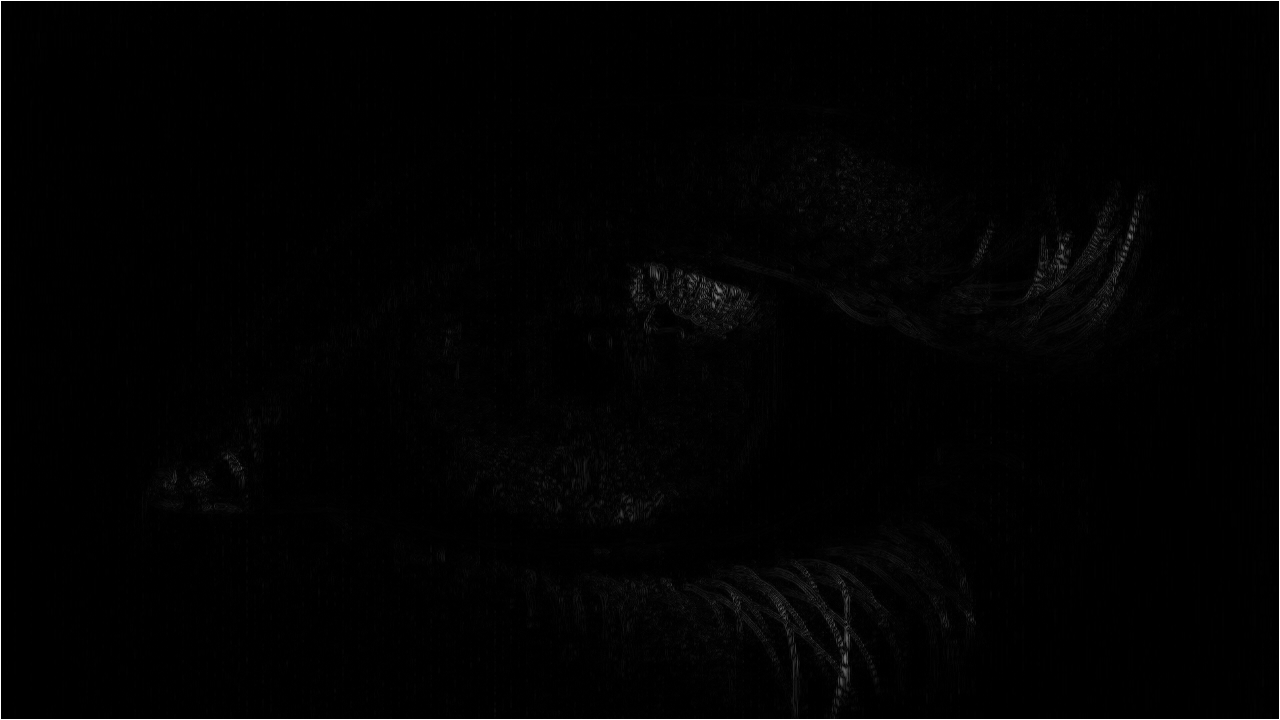
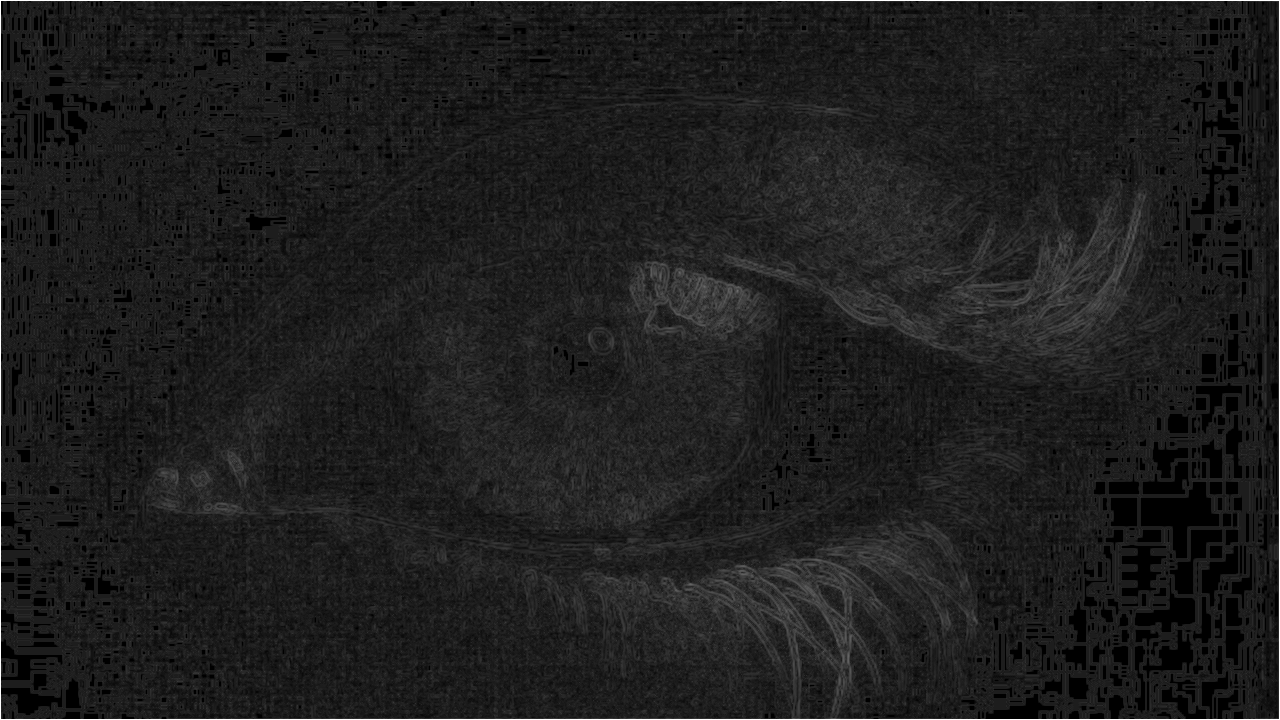
added "laplace sharpener" functionality - will need to consider whether to keep and use it

diff --git a/Eyebot3/LaplaceFilter.cs b/Eyebot3/LaplaceFilter.cs
@@ -23,10 +23,14 @@ namespace Eyebot3
             {
                 for (int j = -1; j < 2; j++)
                 {
-                    sumDifference += Math.Abs(pixelVal - getBrightness(image.GetPixel(xLoc + 1, yLoc + j)));
+                    var otherBrightness = getBrightness(image.GetPixel(xLoc + i, yLoc + j));
+                    sumDifference += Math.Abs(pixelVal - otherBrightness);
                 }
             }
-            return (int)(sumDifference / 9.0);
+            //sharpener experimentation
+            sumDifference = (int)(Math.Pow(sumDifference / (255.0*8.0), .5) * (255*8));
+            //end sharpener
+            return (int)(sumDifference / 8.0);
         }
 
         public int getBrightness(Color pixel)
